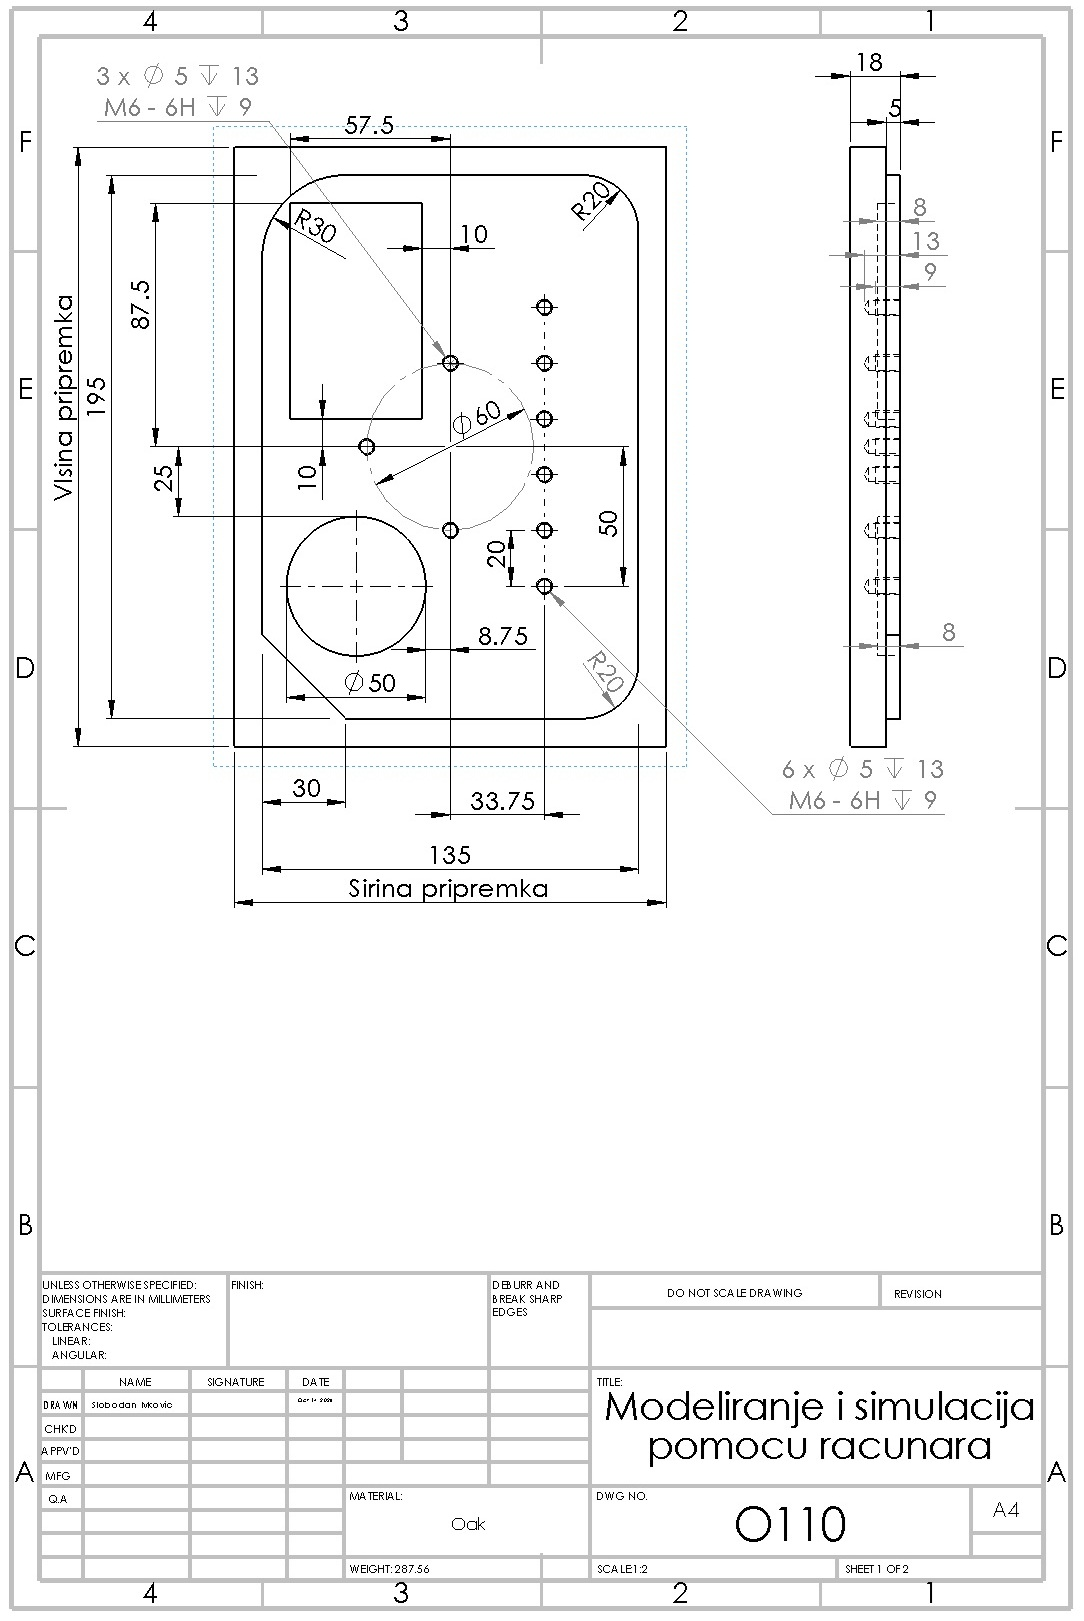
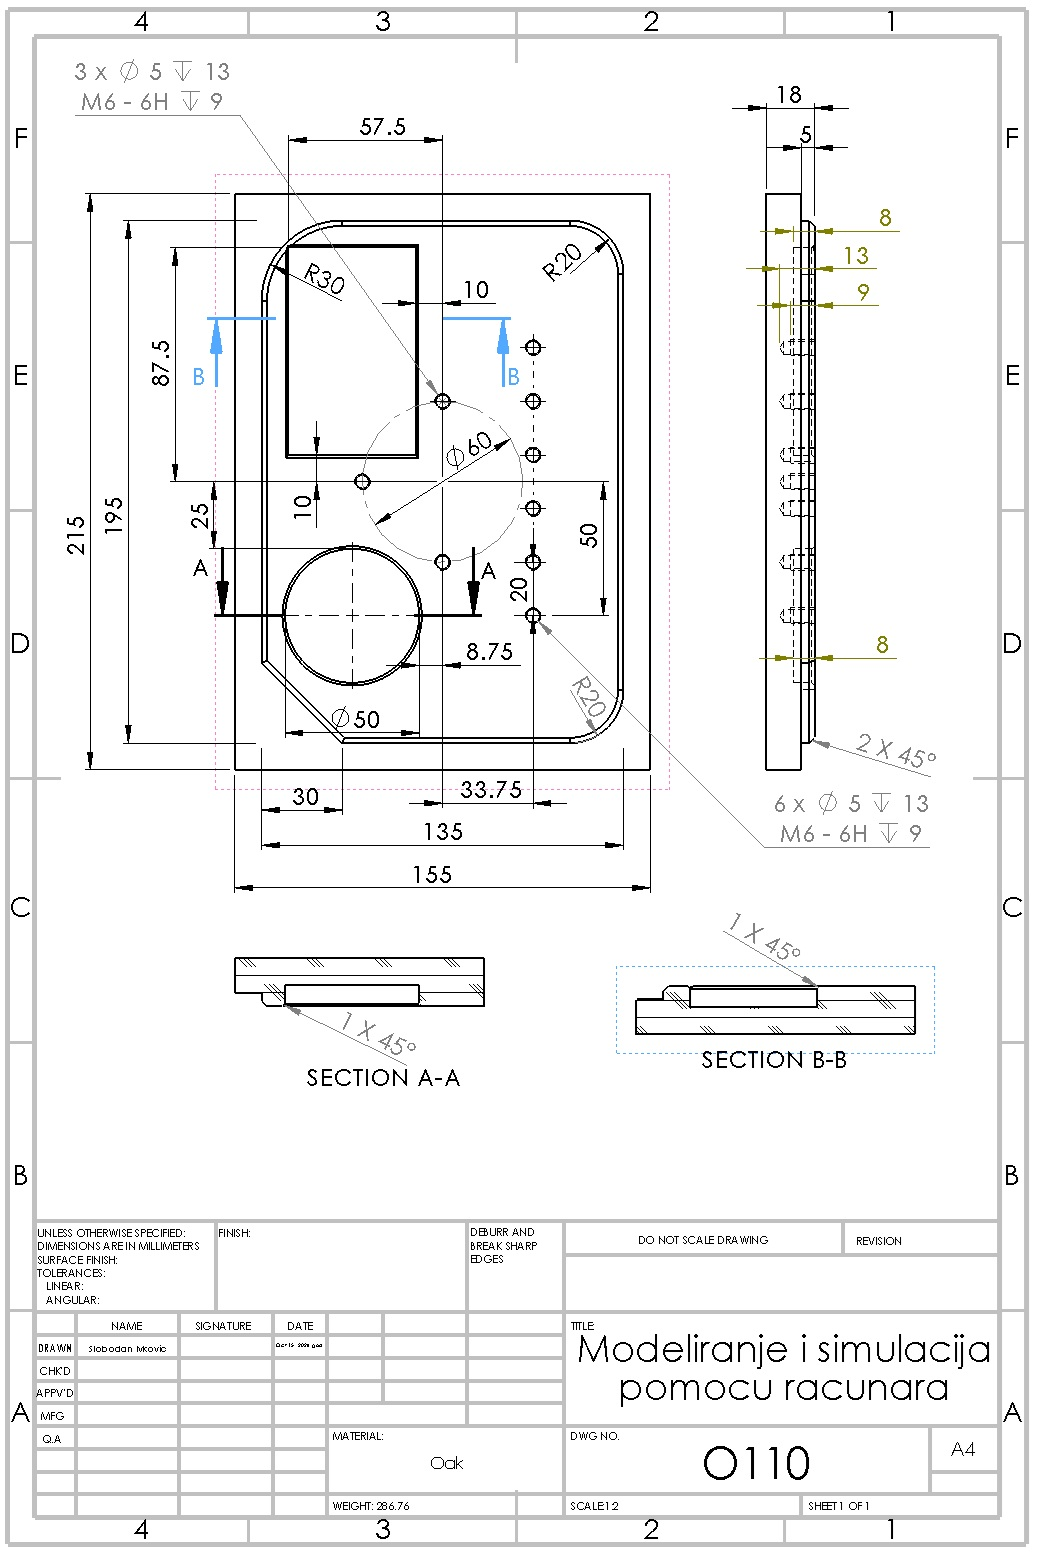
On o110.html page modeling and drawing, basic CAM Features, Extract Machinable Features tutorial have been added. Also drwaing has been updatedI love my son Aleksej Ivkovic Cvijic very very much. I miss you to the farthest star and beyond, unponderable in infinity... To my son Aleksej wit love!

diff --git a/o110.html b/o110.html
@@ -145,14 +145,14 @@
                   </div>
                   <div class="accordion-item">
                     <h2 class="accordion-header" id="mic_O110">
-                      <button class="btn accordion-button disabled" type="button" data-bs-toggle="collapse" data-bs-target="#collapse_mic_O110" aria-expanded="true" aria-controls="collapse_mic_O110">
+                      <button class="btn accordion-button" type="button" data-bs-toggle="collapse" data-bs-target="#collapse_mic_O110" aria-expanded="true" aria-controls="collapse_mic_O110">
                         Моделирање и израда цртежа:
                       </button>
                     </h2>
                     <div id="collapse_mic_O110" class="accordion-collapse collapse" aria-labelledby="mic_O110" data-bs-parent="#modeliranje_O110">
                       <div class="accordion-body">
                         <div class="card ratio ratio-16x9">
-                          
+                          <iframe width="560" height="315" src="https://www.youtube.com/embed/Mf5kXyjcvXw?si=T9bzTBFF8WqmVgop" title="YouTube video player" frameborder="0" allow="accelerometer; autoplay; clipboard-write; encrypted-media; gyroscope; picture-in-picture; web-share" referrerpolicy="strict-origin-when-cross-origin" allowfullscreen></iframe>
                         </div>
                       </div>
                     </div>
@@ -250,7 +250,7 @@
                     <div id="collapse_O110_CAM_setup_tutorial" class="accordion-collapse collapse" aria-labelledby="O110_CAM_setup_tutorial" data-bs-parent="#sw_tutorial">
                       <div class="accordion-body">
                         <div class="card ratio ratio-16x9">
-                          
+                          <iframe width="560" height="315" src="https://www.youtube.com/embed/JlVSadQ9ExE?si=c6ewbdNUAlS2qjZ1" title="YouTube video player" frameborder="0" allow="accelerometer; autoplay; clipboard-write; encrypted-media; gyroscope; picture-in-picture; web-share" referrerpolicy="strict-origin-when-cross-origin" allowfullscreen></iframe>
                         </div>
                       </div>
                     </div>
@@ -264,7 +264,7 @@
                     <div id="collapse_O110_Extract_MF_tutorial" class="accordion-collapse collapse" aria-labelledby="O110_Extract_MF_tutorial" data-bs-parent="#sw_tutorial">
                       <div class="accordion-body">
                         <div class="card ratio ratio-16x9">
-                          
+                          <iframe width="560" height="315" src="https://www.youtube.com/embed/6b-hgodXWO4?si=3gHCUjt97ySwg09V" title="YouTube video player" frameborder="0" allow="accelerometer; autoplay; clipboard-write; encrypted-media; gyroscope; picture-in-picture; web-share" referrerpolicy="strict-origin-when-cross-origin" allowfullscreen></iframe>
                         </div>
                       </div>
                     </div>
